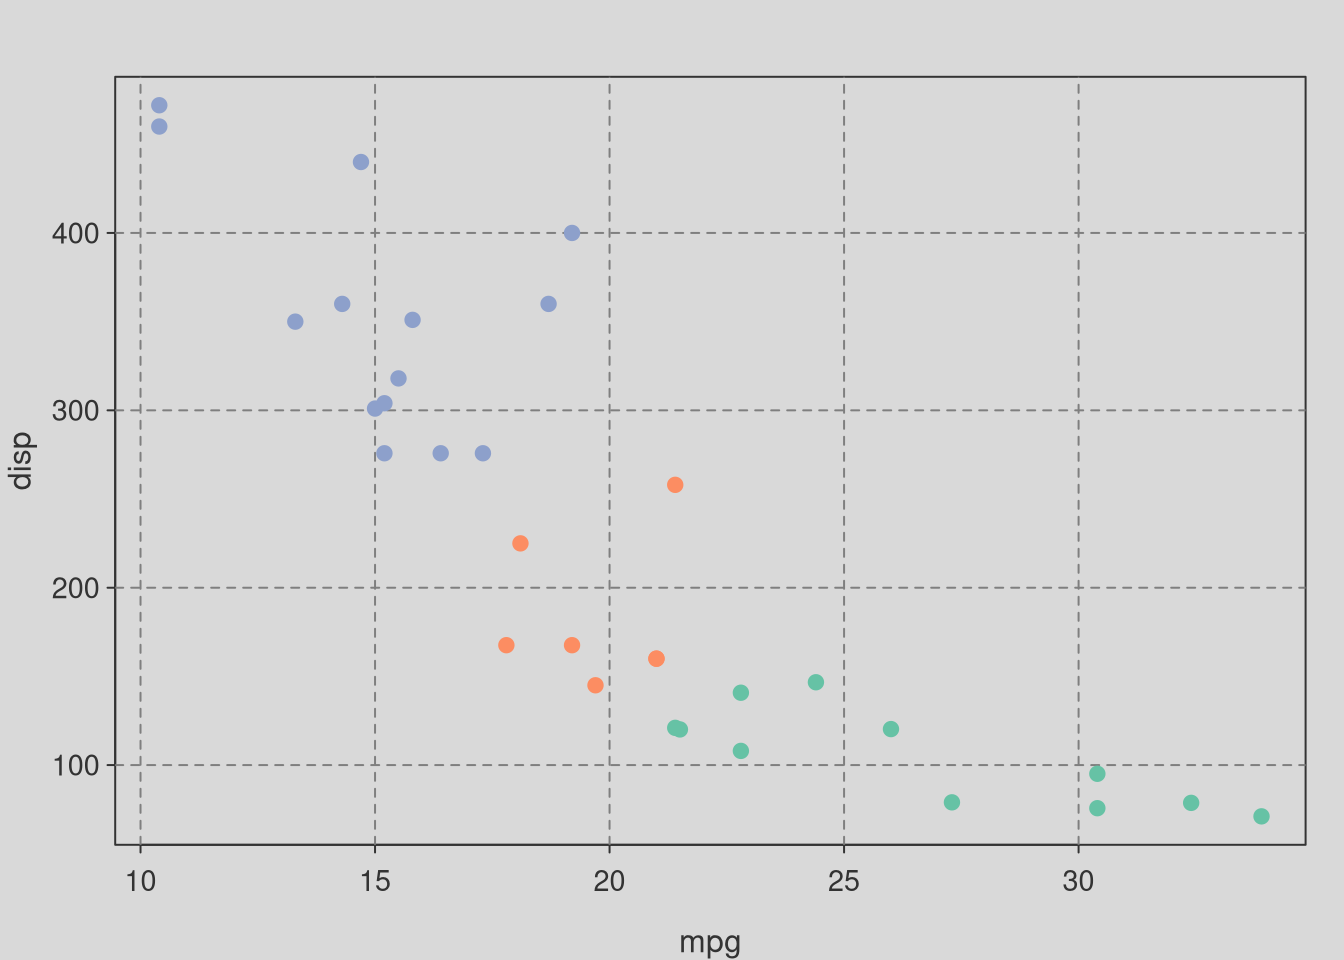
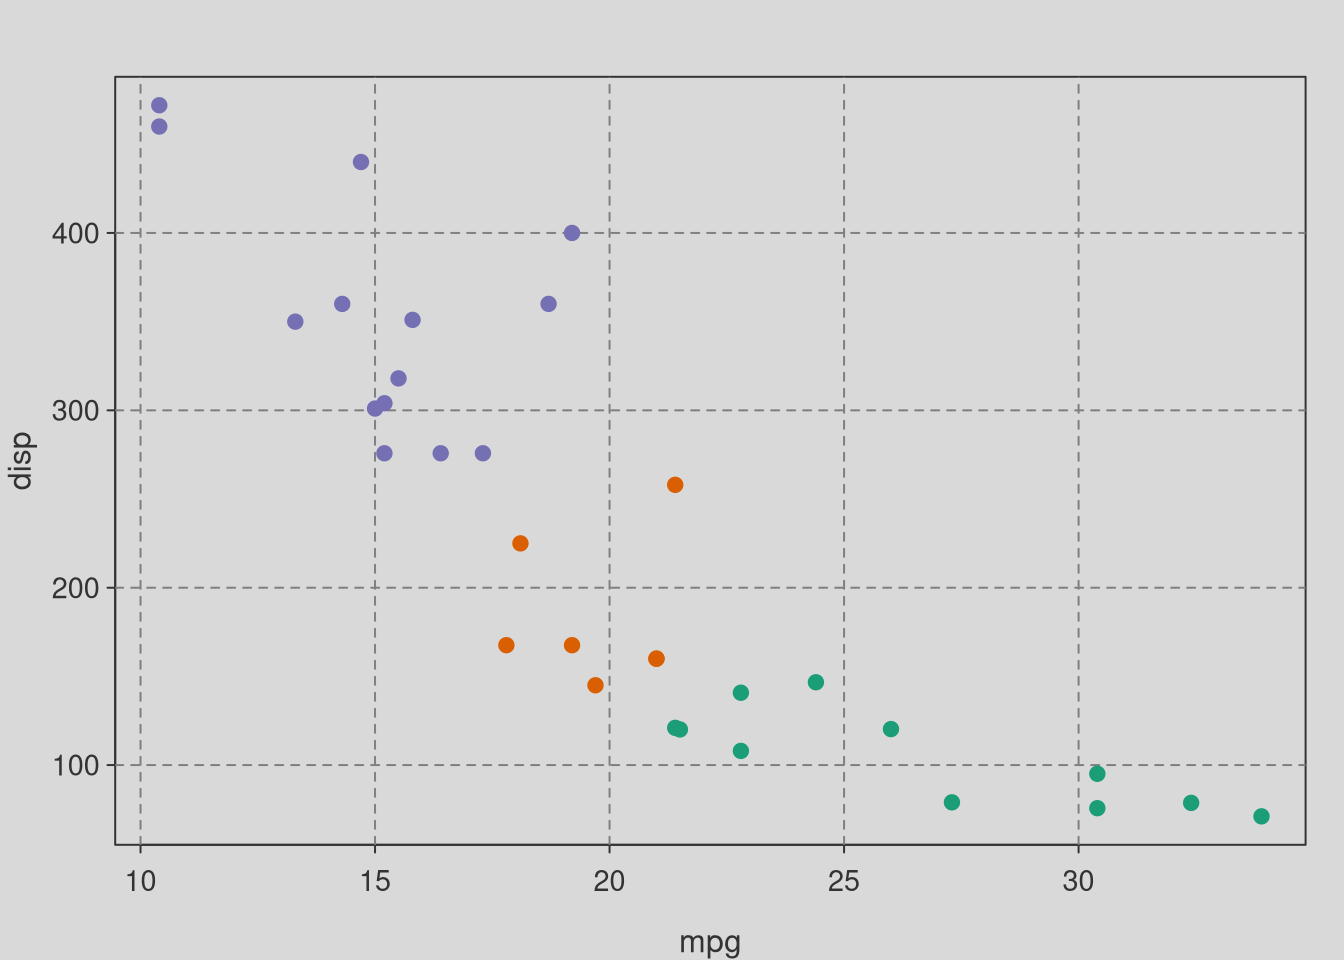
scale

diff --git a/docs/plotbb.html b/docs/plotbb.html
@@ -178,7 +178,7 @@ code span.wa { color: #60a0b0; font-weight: bold; font-style: italic; } /* Warni
 <div class="sourceCode" id="cb1"><pre class="sourceCode r"><code class="sourceCode r"><span id="cb1-1"><a href="plotbb.html#cb1-1"></a><span class="kw">library</span>(plotbb)</span>
 <span id="cb1-2"><a href="plotbb.html#cb1-2"></a></span>
 <span id="cb1-3"><a href="plotbb.html#cb1-3"></a>p &lt;-<span class="st"> </span><span class="kw">bbplot</span>(mtcars, <span class="kw">bb_aes</span>(mpg, disp, <span class="dt">col=</span><span class="kw">factor</span>(cyl)))</span>
-<span id="cb1-4"><a href="plotbb.html#cb1-4"></a>p <span class="op">+</span><span class="st"> </span><span class="kw">bb_grid</span>(<span class="dt">col=</span><span class="st">&#39;grey50&#39;</span>, <span class="dt">lty=</span><span class="st">&#39;dashed&#39;</span>) <span class="op">+</span><span class="st"> </span><span class="kw">bb_point</span>(<span class="dt">pch=</span><span class="dv">19</span>)</span></code></pre></div>
+<span id="cb1-4"><a href="plotbb.html#cb1-4"></a>p <span class="op">+</span><span class="st"> </span><span class="kw">bb_grid</span>(<span class="dt">col=</span><span class="st">&#39;grey50&#39;</span>, <span class="dt">lty=</span><span class="st">&#39;dashed&#39;</span>) <span class="op">+</span><span class="st"> </span><span class="kw">bb_point</span>(<span class="dt">pch=</span><span class="dv">19</span>) </span></code></pre></div>
 <p><img src="pkgdocs_files/figure-html/plotbb-aes-1.png" width="672" /></p>
 </div>
 <div id="geometric-layer" class="section level2">
@@ -197,7 +197,7 @@ code span.wa { color: #60a0b0; font-weight: bold; font-style: italic; } /* Warni
 <span id="cb3-4"><a href="plotbb.html#cb3-4"></a>                 <span class="dt">stringsAsFactors =</span> <span class="ot">FALSE</span>)</span>
 <span id="cb3-5"><a href="plotbb.html#cb3-5"></a><span class="kw">par</span>(<span class="dt">mfrow=</span><span class="kw">c</span>(<span class="dv">1</span>,<span class="dv">2</span>))                 </span>
 <span id="cb3-6"><a href="plotbb.html#cb3-6"></a><span class="kw">bbplot</span>(df, <span class="kw">bb_aes</span>(x,y, <span class="dt">col=</span>values)) <span class="op">+</span><span class="st"> </span><span class="kw">bb_tile</span>()</span>
-<span id="cb3-7"><a href="plotbb.html#cb3-7"></a><span class="kw">bbplot</span>(df, <span class="kw">bb_aes</span>(x,y, <span class="dt">col=</span>values)) <span class="op">+</span><span class="st"> </span><span class="kw">bb_tile</span>(<span class="dt">palette=</span><span class="st">&quot;YlOrRd&quot;</span>)</span></code></pre></div>
+<span id="cb3-7"><a href="plotbb.html#cb3-7"></a><span class="kw">bbplot</span>(df, <span class="kw">bb_aes</span>(x,y, <span class="dt">col=</span>values)) <span class="op">+</span><span class="st"> </span><span class="kw">bb_tile</span>() <span class="op">+</span><span class="st"> </span><span class="kw">bb_scale_col_palette</span>(<span class="st">&quot;YlOrRd&quot;</span>) </span></code></pre></div>
 <p><img src="pkgdocs_files/figure-html/plotbb-heatmap-1.png" width="1152" /></p>
 </div>
 <div id="todo" class="section level3">
@@ -221,7 +221,7 @@ bb_tile</li>
 <h2><span class="header-section-number">1.3</span> Setting labels</h2>
 <div class="sourceCode" id="cb4"><pre class="sourceCode r"><code class="sourceCode r"><span id="cb4-1"><a href="plotbb.html#cb4-1"></a>p2 <span class="op">+</span><span class="st"> </span><span class="kw">bb_labs</span>(<span class="dt">title =</span> <span class="st">&quot;hello&quot;</span>, <span class="dt">sub =</span> <span class="st">&quot;just for demo&quot;</span>,</span>
 <span id="cb4-2"><a href="plotbb.html#cb4-2"></a>              <span class="dt">xlab=</span><span class="st">&quot;this is xlab&quot;</span>, <span class="dt">ylab =</span> <span class="st">&quot;this is ylab&quot;</span>) <span class="op">+</span></span>
-<span id="cb4-3"><a href="plotbb.html#cb4-3"></a><span class="st">  </span><span class="kw">bb_title</span>(<span class="st">&quot;hello world&quot;</span>) <span class="co"># last one rules            </span></span></code></pre></div>
+<span id="cb4-3"><a href="plotbb.html#cb4-3"></a><span class="st">  </span><span class="kw">bb_title</span>(<span class="st">&quot;hello world&quot;</span>) <span class="co"># last one rules</span></span></code></pre></div>
 <p><img src="pkgdocs_files/figure-html/plotbb-labs-1.png" width="672" /></p>
 </div>
 <div id="theme" class="section level2">
@@ -231,40 +231,44 @@ bb_tile</li>
 <span id="cb5-3"><a href="plotbb.html#cb5-3"></a>             <span class="dt">mar =</span> <span class="kw">c</span>(<span class="dv">4</span>, <span class="dv">4</span>, <span class="dv">3</span>, <span class="dv">1</span>)) <span class="op">+</span></span>
 <span id="cb5-4"><a href="plotbb.html#cb5-4"></a><span class="st">     </span><span class="kw">bb_title</span>(<span class="st">&quot;applying graphics::par&quot;</span>)</span>
 <span id="cb5-5"><a href="plotbb.html#cb5-5"></a><span class="kw">par</span>(<span class="dt">mfrow=</span><span class="kw">c</span>(<span class="dv">1</span>,<span class="dv">2</span>))</span>
-<span id="cb5-6"><a href="plotbb.html#cb5-6"></a><span class="kw">print</span>(g)</span>
+<span id="cb5-6"><a href="plotbb.html#cb5-6"></a><span class="kw">print</span>(g) </span>
 <span id="cb5-7"><a href="plotbb.html#cb5-7"></a>p2 <span class="op">+</span><span class="st"> </span><span class="kw">bb_title</span>(<span class="st">&quot;theme has no side effect&quot;</span>)</span></code></pre></div>
 <p><img src="pkgdocs_files/figure-html/plotbb-theme-1.png" width="960" /></p>
 <p><code>bb_theme</code> has no side effect and will only apply to the <code>bbplot</code> object that it added to.
 This is very important for developing pre-defined themes.</p>
-<div class="sourceCode" id="cb6"><pre class="sourceCode r"><code class="sourceCode r"><span id="cb6-1"><a href="plotbb.html#cb6-1"></a><span class="kw">par</span>(<span class="dt">mfrow=</span><span class="kw">c</span>(<span class="dv">1</span>,<span class="dv">2</span>))</span>
+<div class="sourceCode" id="cb6"><pre class="sourceCode r"><code class="sourceCode r"><span id="cb6-1"><a href="plotbb.html#cb6-1"></a><span class="kw">par</span>(<span class="dt">mfrow=</span><span class="kw">c</span>(<span class="dv">1</span>,<span class="dv">2</span>)) </span>
 <span id="cb6-2"><a href="plotbb.html#cb6-2"></a>p3 <span class="op">+</span><span class="st"> </span><span class="kw">bb_theme_expand</span>()</span>
 <span id="cb6-3"><a href="plotbb.html#cb6-3"></a><span class="kw">print</span>(p3)</span></code></pre></div>
 <p><img src="pkgdocs_files/figure-html/plotbb-theme-expand-1.png" width="960" /></p>
 <div class="sourceCode" id="cb7"><pre class="sourceCode r"><code class="sourceCode r"><span id="cb7-1"><a href="plotbb.html#cb7-1"></a>p <span class="op">+</span><span class="st"> </span><span class="kw">bb_grid</span>(<span class="dt">col=</span><span class="st">&#39;grey50&#39;</span>, <span class="dt">lty=</span><span class="st">&#39;dashed&#39;</span>) <span class="op">+</span></span>
 <span id="cb7-2"><a href="plotbb.html#cb7-2"></a><span class="st">  </span><span class="kw">bb_point</span>(<span class="dt">pch=</span><span class="dv">19</span>) <span class="op">+</span></span>
 <span id="cb7-3"><a href="plotbb.html#cb7-3"></a><span class="st">  </span><span class="kw">bb_theme_expand</span>() <span class="op">+</span></span>
-<span id="cb7-4"><a href="plotbb.html#cb7-4"></a><span class="st">  </span><span class="kw">bb_theme_grey</span>()</span></code></pre></div>
+<span id="cb7-4"><a href="plotbb.html#cb7-4"></a><span class="st">  </span><span class="kw">bb_theme_grey</span>() </span></code></pre></div>
 <p><img src="pkgdocs_files/figure-html/plotbb-theme-grey-1.png" width="672" /></p>
 <div class="sourceCode" id="cb8"><pre class="sourceCode r"><code class="sourceCode r"><span id="cb8-1"><a href="plotbb.html#cb8-1"></a>p <span class="op">+</span><span class="st"> </span><span class="kw">bb_point</span>(<span class="dt">pch=</span><span class="dv">19</span>, <span class="dt">cex=</span><span class="dv">2</span>) <span class="op">+</span></span>
 <span id="cb8-2"><a href="plotbb.html#cb8-2"></a><span class="st">  </span><span class="kw">bb_theme_expand</span>() <span class="op">+</span></span>
-<span id="cb8-3"><a href="plotbb.html#cb8-3"></a><span class="st">  </span><span class="kw">bb_theme_deepblue</span>()</span></code></pre></div>
+<span id="cb8-3"><a href="plotbb.html#cb8-3"></a><span class="st">  </span><span class="kw">bb_theme_deepblue</span>() </span></code></pre></div>
 <p><img src="pkgdocs_files/figure-html/plotbb-theme-blue-1.png" width="672" /></p>
 <div id="todo-1" class="section level3">
 <h3><span class="header-section-number">1.4.1</span> TODO</h3>
 <ul>
 <li><input type="checkbox" disabled="" checked="" />
-bb_theme_expand</li>
+<code>bb_theme_expand</code></li>
 <li><input type="checkbox" disabled="" checked="" />
-bb_theme_grey</li>
+<code>bb_theme_grey</code></li>
 <li><input type="checkbox" disabled="" checked="" />
-bb_theme_deepblue</li>
+<code>bb_theme_deepblue</code></li>
 <li>develop more pre-defined themes</li>
 </ul>
 </div>
 </div>
 <div id="scale" class="section level2">
 <h2><span class="header-section-number">1.5</span> Scale</h2>
-<p>Not yet implemented</p>
+<ul>
+<li><input type="checkbox" disabled="" checked="" />
+<code>bb_scale_col_palette</code></li>
+<li>more to be implemented</li>
+</ul>
 </div>
 <div id="legend" class="section level2">
 <h2><span class="header-section-number">1.6</span> Legend</h2>
@@ -276,12 +280,12 @@ bb_theme_deepblue</li>
 <div class="sourceCode" id="cb9"><pre class="sourceCode r"><code class="sourceCode r"><span id="cb9-1"><a href="plotbb.html#cb9-1"></a><span class="kw">plot</span>(mtcars<span class="op">$</span>mpg, mtcars<span class="op">$</span>disp)</span>
 <span id="cb9-2"><a href="plotbb.html#cb9-2"></a><span class="kw">abline</span>(<span class="kw">lm</span>(disp <span class="op">~</span><span class="st"> </span>mpg, <span class="dt">data=</span>mtcars), <span class="dt">col=</span><span class="st">&#39;red&#39;</span>)</span></code></pre></div>
 <p>We can wrap the codes into a function:</p>
-<div class="sourceCode" id="cb10"><pre class="sourceCode r"><code class="sourceCode r"><span id="cb10-1"><a href="plotbb.html#cb10-1"></a>f &lt;-<span class="st"> </span><span class="cf">function</span>() {</span>
+<div class="sourceCode" id="cb10"><pre class="sourceCode r"><code class="sourceCode r"><span id="cb10-1"><a href="plotbb.html#cb10-1"></a>f &lt;-<span class="st"> </span><span class="cf">function</span>() { </span>
 <span id="cb10-2"><a href="plotbb.html#cb10-2"></a>  <span class="kw">plot</span>(mtcars<span class="op">$</span>mpg, mtcars<span class="op">$</span>disp)</span>
 <span id="cb10-3"><a href="plotbb.html#cb10-3"></a>  <span class="kw">abline</span>(<span class="kw">lm</span>(disp <span class="op">~</span><span class="st"> </span>mpg, <span class="dt">data=</span>mtcars), <span class="dt">col=</span><span class="st">&#39;red&#39;</span>)</span>
 <span id="cb10-4"><a href="plotbb.html#cb10-4"></a>}</span></code></pre></div>
 <p>Then we can convert it to a <code>bbplot</code> object. The plot produced by the function will be used as the canvas, and we can apply theme and add layers to it:</p>
-<div class="sourceCode" id="cb11"><pre class="sourceCode r"><code class="sourceCode r"><span id="cb11-1"><a href="plotbb.html#cb11-1"></a><span class="kw">library</span>(dplyr)</span>
+<div class="sourceCode" id="cb11"><pre class="sourceCode r"><code class="sourceCode r"><span id="cb11-1"><a href="plotbb.html#cb11-1"></a><span class="kw">library</span>(dplyr) </span>
 <span id="cb11-2"><a href="plotbb.html#cb11-2"></a>d &lt;-<span class="st"> </span><span class="kw">group_by</span>(mtcars, cyl) <span class="op">%&gt;%</span></span>
 <span id="cb11-3"><a href="plotbb.html#cb11-3"></a><span class="st">  </span><span class="kw">summarize</span>(<span class="dt">xm=</span><span class="kw">mean</span>(mpg), <span class="dt">ym=</span><span class="kw">mean</span>(disp))</span>
 <span id="cb11-4"><a href="plotbb.html#cb11-4"></a></span>
@@ -293,7 +297,7 @@ bb_theme_deepblue</li>
 <span id="cb11-10"><a href="plotbb.html#cb11-10"></a><span class="st">   </span><span class="kw">bb_title</span>(<span class="st">&quot;hello plotbb&quot;</span>) <span class="op">+</span></span>
 <span id="cb11-11"><a href="plotbb.html#cb11-11"></a><span class="st">   </span><span class="kw">bb_grid</span>(<span class="dt">col=</span><span class="st">&#39;grey30&#39;</span>, <span class="dt">lty=</span><span class="st">&#39;dashed&#39;</span>) <span class="co">## grid lines were plotted as background by default</span></span></code></pre></div>
 <p>As there are many features currently not available, <code>plotbb</code> supports adding layers using base graphics commands that you are already familiar with. Any base graphics commands in formula, expression or function can be served as layer to be added to a <code>bbplot</code> object.</p>
-<div class="sourceCode" id="cb12"><pre class="sourceCode r"><code class="sourceCode r"><span id="cb12-1"><a href="plotbb.html#cb12-1"></a>pp <span class="op">+</span><span class="st"> </span>(<span class="op">~</span><span class="kw">points</span>(<span class="dv">30</span>, <span class="dv">400</span>, <span class="dt">pch=</span><span class="dv">19</span>, <span class="dt">col=</span><span class="st">&quot;red&quot;</span>, <span class="dt">cex=</span><span class="dv">3</span>)) <span class="op">+</span></span>
+<div class="sourceCode" id="cb12"><pre class="sourceCode r"><code class="sourceCode r"><span id="cb12-1"><a href="plotbb.html#cb12-1"></a>pp <span class="op">+</span><span class="st"> </span>(<span class="op">~</span><span class="kw">points</span>(<span class="dv">30</span>, <span class="dv">400</span>, <span class="dt">pch=</span><span class="dv">19</span>, <span class="dt">col=</span><span class="st">&quot;red&quot;</span>, <span class="dt">cex=</span><span class="dv">3</span>)) <span class="op">+</span><span class="st"> </span></span>
 <span id="cb12-2"><a href="plotbb.html#cb12-2"></a><span class="st">   </span><span class="er">~</span><span class="kw">text</span>(<span class="dv">30</span>, <span class="dv">420</span>, <span class="dt">label=</span><span class="st">&quot;hae fun :)&quot;</span>, <span class="dt">col=</span><span class="st">&quot;blue&quot;</span>, <span class="dt">cex=</span><span class="fl">1.2</span>)</span></code></pre></div>
 <p><img src="pkgdocs_files/figure-html/plotbb-base-1.png" width="672" /></p>
 
